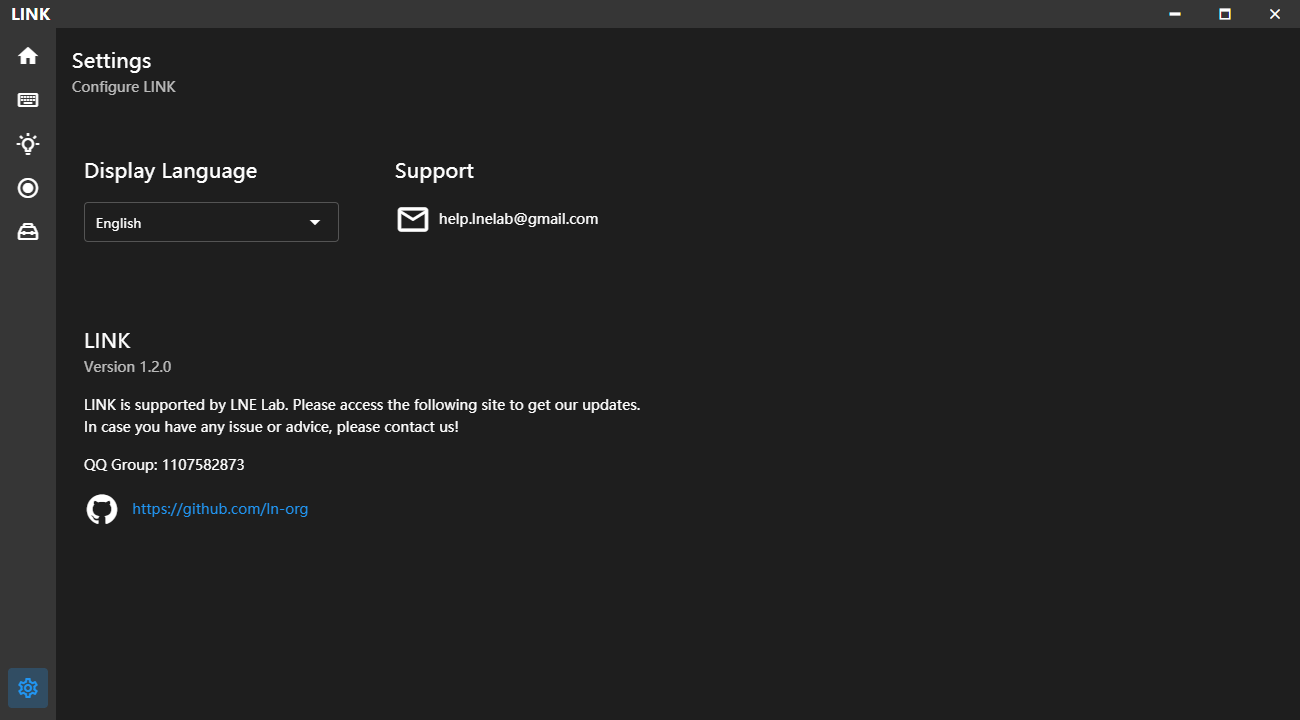
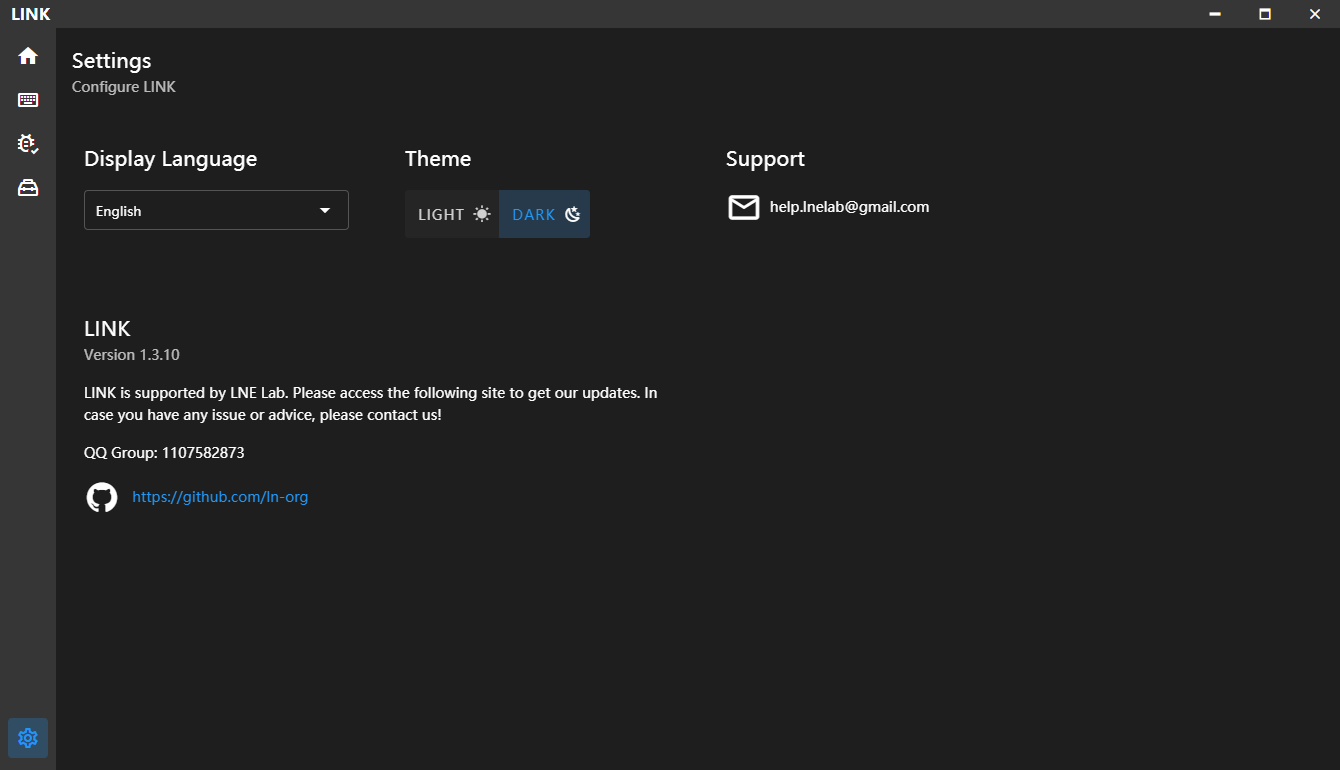
Update readme.md

diff --git a/SUPPORT.md b/SUPPORT.md
@@ -8,6 +8,11 @@ https://www.lnelab.com/docs/support/supported-devices
 
 
 ## Release Notes
+### v1.3.10
+* Add new keyboards: Kamilia, CA66
+* Add new language: 繁體中文
+* Update UI.
+
 ### v1.3.9
 * Add new keyboards: Ursa Major, Meowtool mini, iF, Luna, F60, G60 BLE 
 * Rename Media keycodes as System and add more consumer keycodes.
